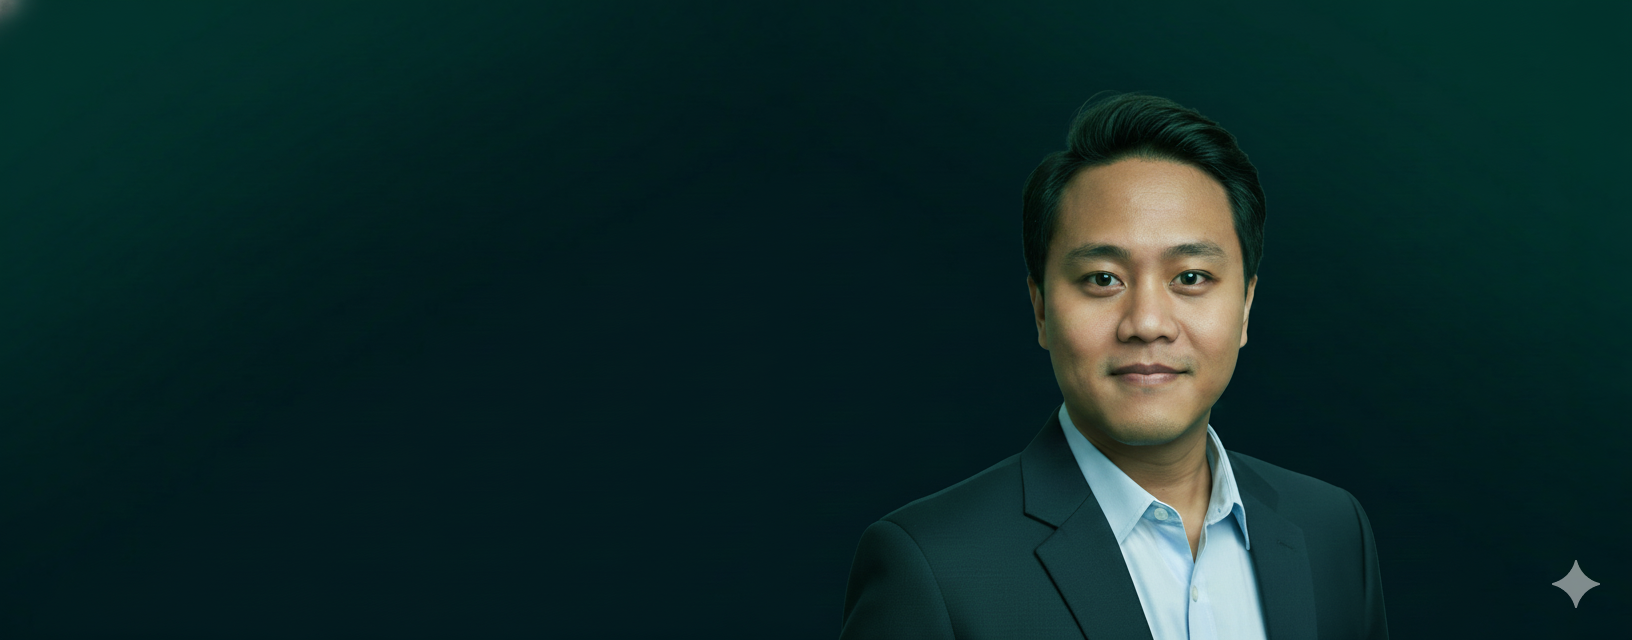
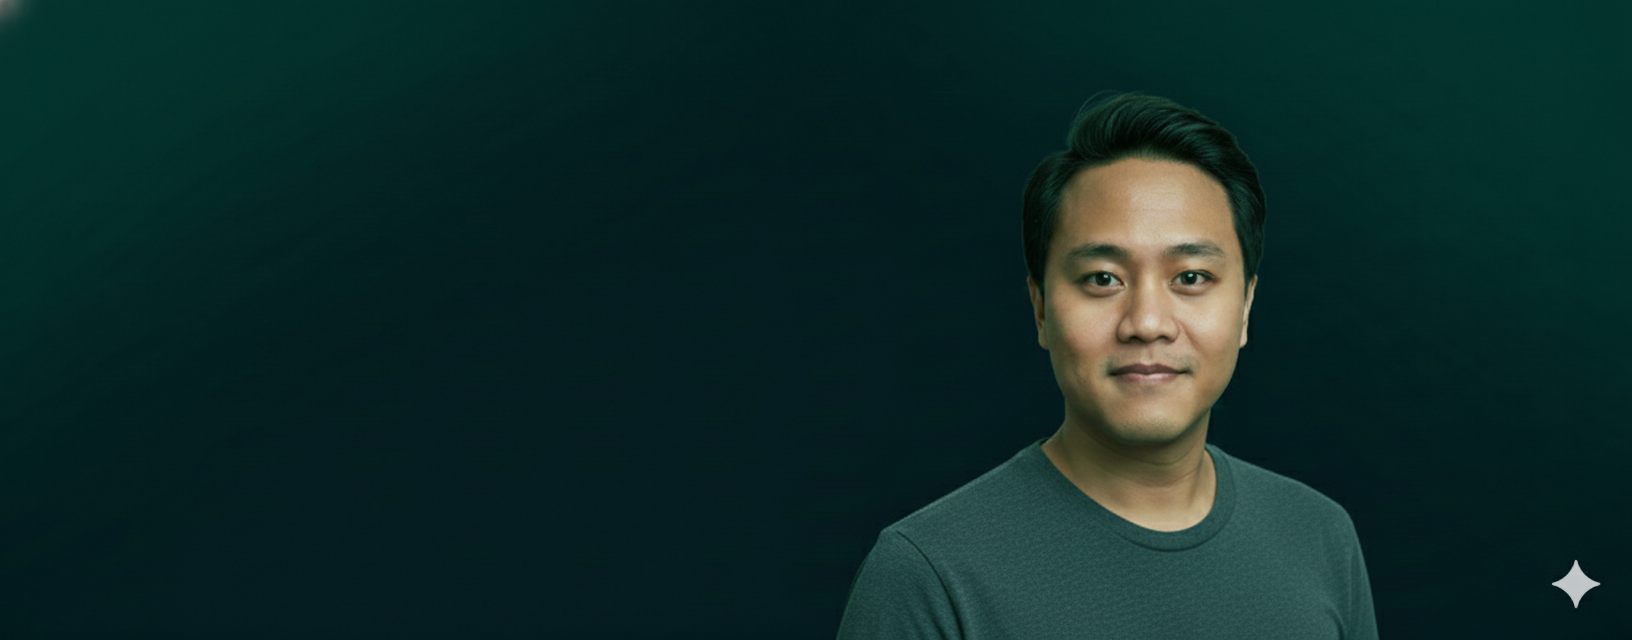
add AnimatedTitles component and update Hero section with new content

Changed region(s): [[0.5, 0.625, 0.8438, 1.0], [0.9375, 0.875, 1.0, 0.9375]]

diff --git a/src/utils/AnimatedTitles.jsx b/src/utils/AnimatedTitles.jsx
@@ -1,0 +1,47 @@
+import { useEffect, useState } from "react";
+
+const AnimatedTitles = () => {
+    const roles = ['Software Engineer', 'Web Developer', 'Tech Enthusiast'];
+
+    const [currentRoleIndex, setCurrIndex] = useState(0);
+    const [currentText, setCurrentText] = useState('');
+    const [isDeleting, setIsDeleting] = useState(false);
+    const [typingSpeed, setTypingSpeed] = useState(150);
+
+    useEffect(() => {
+        const handleTyping = () => {
+            const fullText = roles[currentRoleIndex];
+            if (isDeleting) {
+                setCurrentText(fullText.substring(0, currentText.length - 1));
+                setTypingSpeed(75);
+            } else {
+                setCurrentText(fullText.substring(0, currentText.length + 1));
+                setTypingSpeed(150);
+            }
+
+            if (!isDeleting && currentText === fullText) {
+                setTimeout(() => setIsDeleting(true), 1000);
+            } else if (isDeleting && currentText === '') {
+                setIsDeleting(false);
+                setCurrIndex((prev) => (prev + 1) % roles.length);
+            }
+        };
+
+        const timer = setTimeout(handleTyping, typingSpeed);
+
+        return () => clearTimeout(timer);
+    }, [currentText, isDeleting, roles, currentRoleIndex, typingSpeed]);
+
+    return (
+        <div className="text-center md:text-start">
+            <h1 className="text-3xl md:text-5xl font-bold text-white mb-6">
+                <span className="text-outline pb-1">
+                    {currentText}
+                </span>
+                <span className="inline-block h-7 md:h-14 w-0.5 bg-cyan-300 ml-1 animate-pulse"></span>
+            </h1>
+        </div>
+    );
+}
+
+export default AnimatedTitles;

diff --git a/src/components/Hero.jsx b/src/components/Hero.jsx
@@ -1,4 +1,4 @@
-import { Fragment } from "react";
+import AnimatedTitles from "../utils/AnimatedTitles";
 
 const Hero = () => {
   return (
@@ -7,11 +7,24 @@ const Hero = () => {
       className="relative min-h-screen flex items-center justify-center pt-16 pb-20"
     >
       <div className="absolute inset-0 -z-10 bg-[url('./assets/slider_background.jpg')] bg-cover bg-center bg-no-repeat"></div>
+      <div className="absolute inset-0"></div>
 
-
-      {/* <div className="relative z-10 flex min-h-screen items-center justify-center">
-        
-      </div> */}
+      <div className="relative z-10 container mx-auto px-6 flex flex-col md:flex-row items-center">
+        <div className="flex-1 text-center md:text-left">
+          <h3 className="text-lg font-light capitalize tracking-wide text-teal-500">
+            Hi, I'm Hangger Hidayanto
+          </h3>
+          <AnimatedTitles />
+          <p className="mt-4 text-gray-300 max-w-xl">
+            I'm a passionate developer with expertise in React, Node.js, and modern web technologies.
+          </p>
+          <div className="mt-6 flex flex-wrap gap-4 text-sm font-medium text-gray-400">
+            <span className="px-4 py-2 bg-white/10 backdrop-blur-md rounded-full">React</span>
+            <span className="px-4 py-2 bg-white/10 backdrop-blur-md rounded-full">Node.js</span>
+            <span className="px-4 py-2 bg-white/10 backdrop-blur-md rounded-full">JavaScript</span>
+          </div>
+        </div>
+      </div>
     </section>
   );
 };
